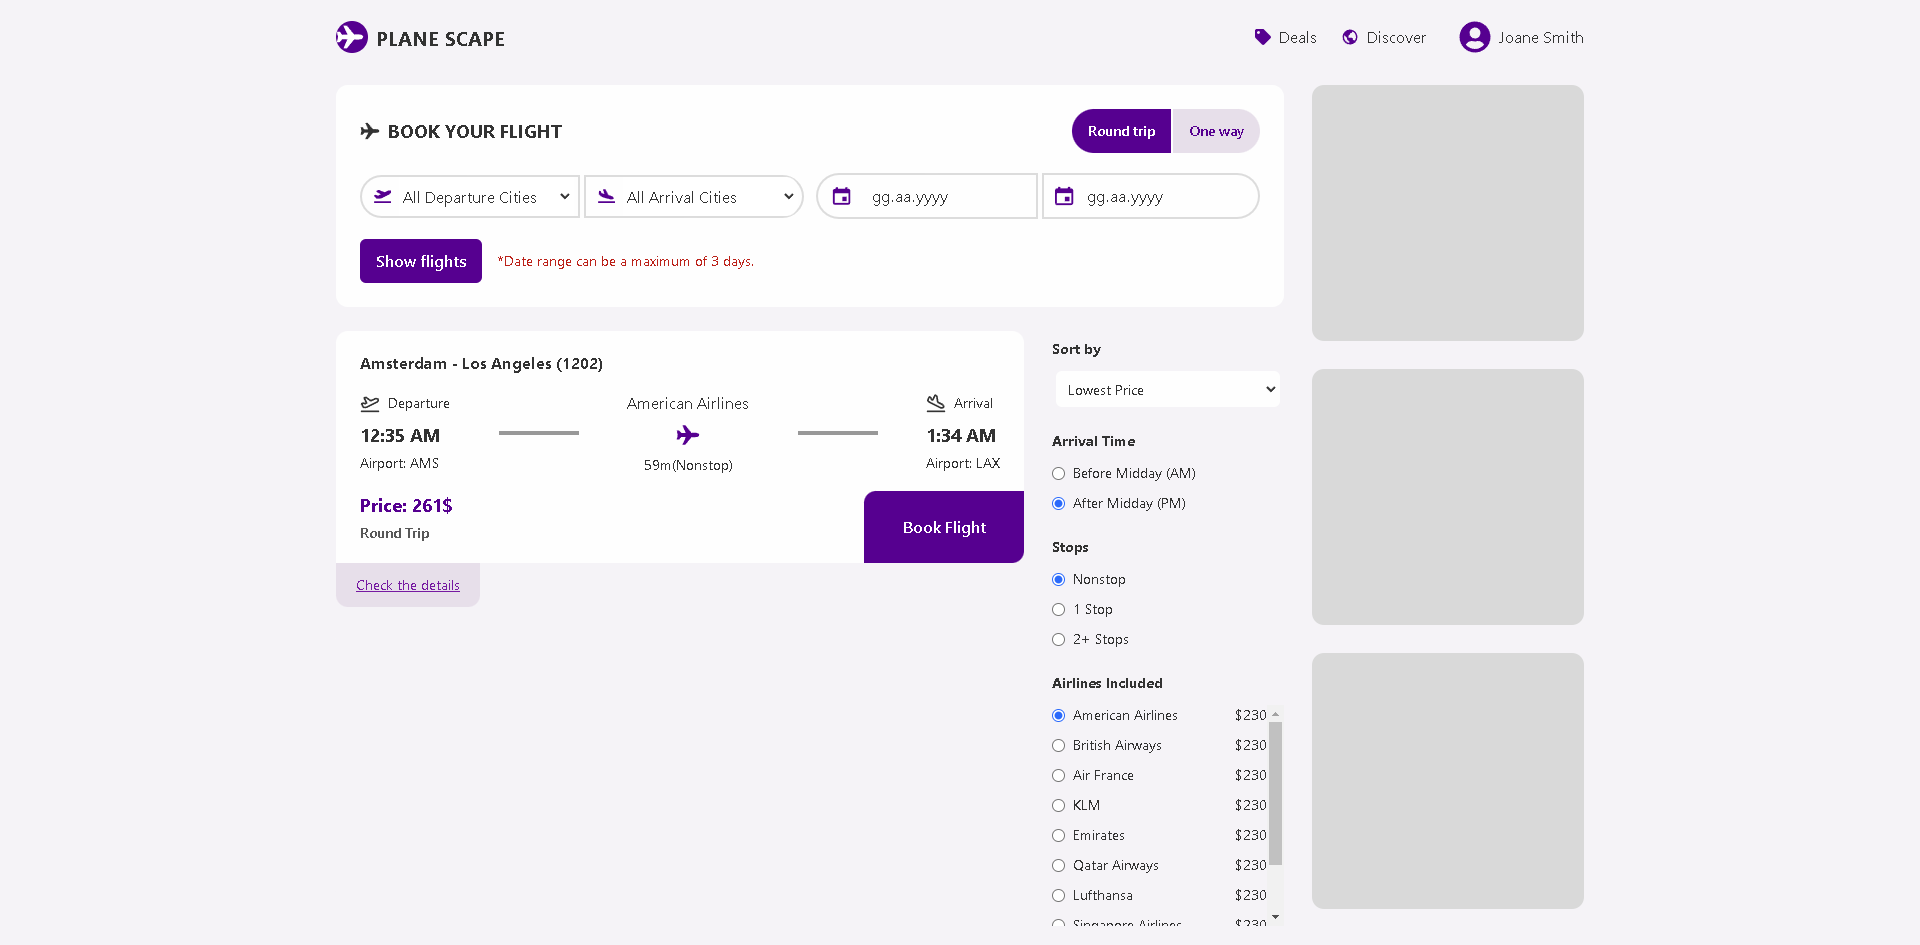
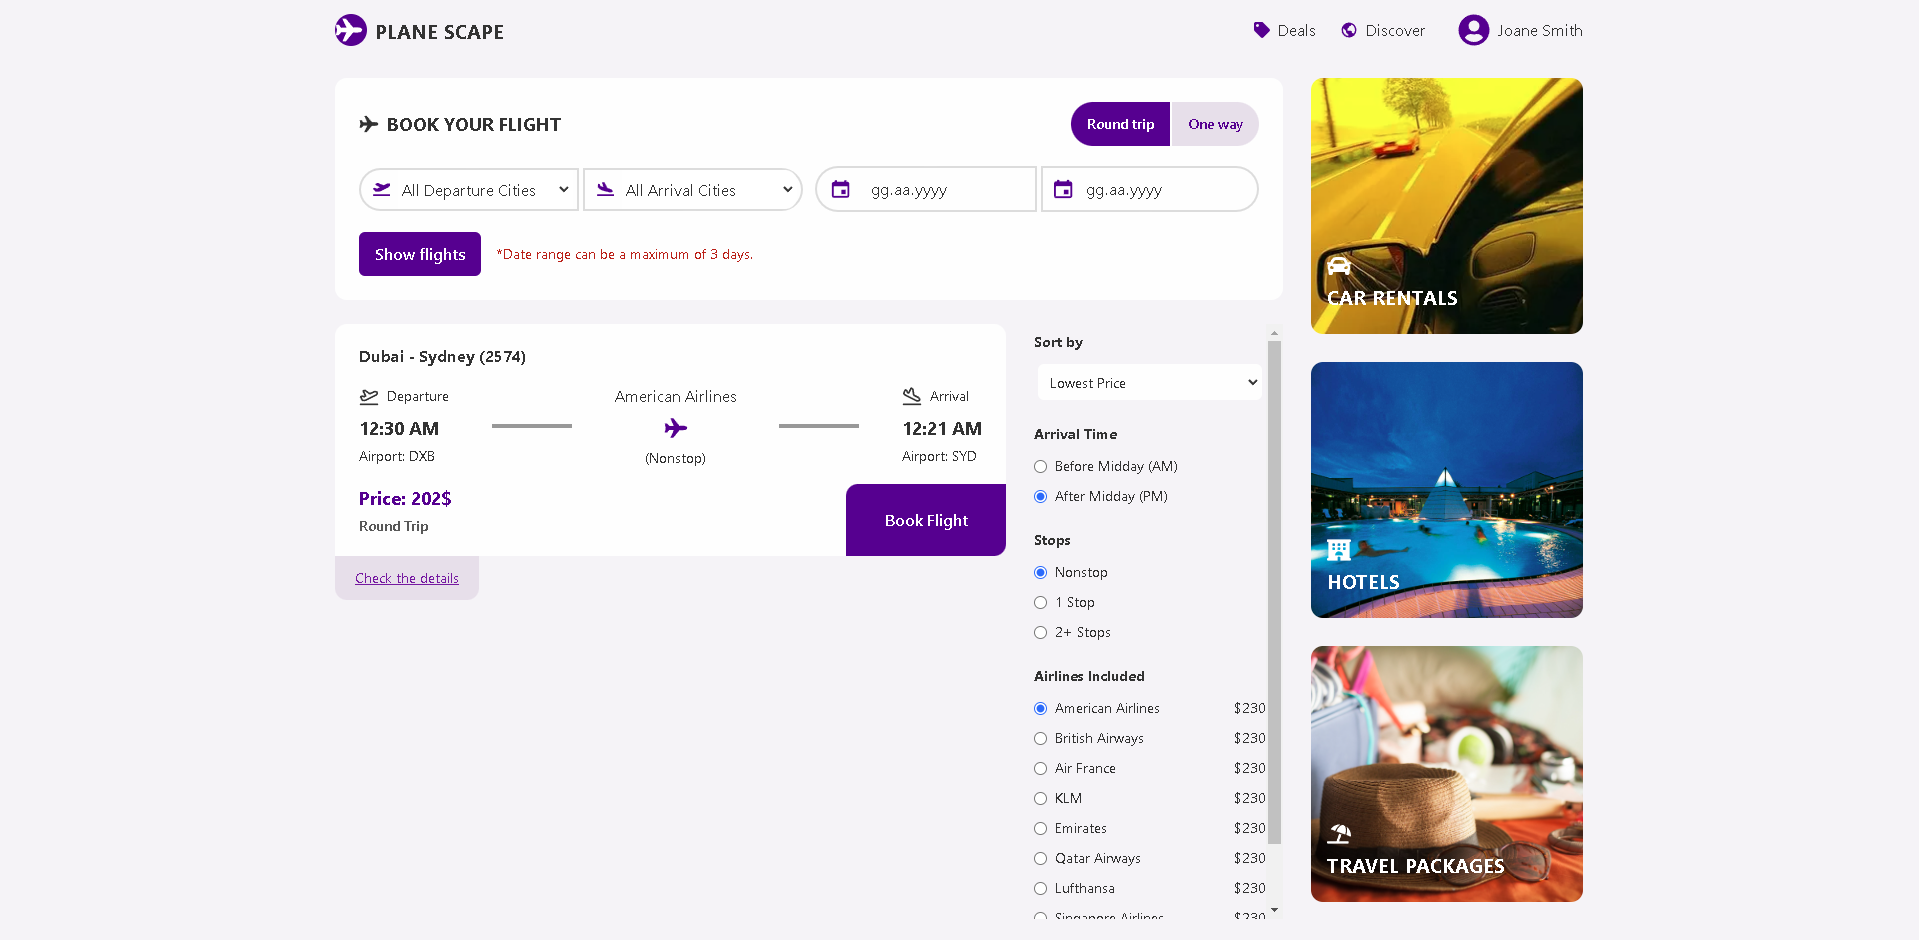
feat(client): add background images for OtherServices component, fix style errors, update README.md and project-images

diff --git a/client/src/app/components/bookFlight/OtherServices.tsx b/client/src/app/components/bookFlight/OtherServices.tsx
@@ -1,11 +1,45 @@
 import React from "react";
+import { FaCar, FaHotel, FaUmbrellaBeach } from "react-icons/fa";
 
 const OtherServices = () => {
   return (
     <section className="hidden xl:flex flex-col gap-7 ">
-      <div className="w-68 flex-1 max-h-64 rounded-xl bg-placeholder flex-shrink-0"></div>
-      <div className="w-68 flex-1 max-h-64 rounded-xl bg-placeholder flex-shrink-0"></div>
-      <div className="w-68 flex-1 max-h-64 rounded-xl bg-placeholder flex-shrink-0"></div>
+      <div
+        className="w-68 bg-cover bg-center text-white flex-1 flex max-h-64 rounded-xl bg-placeholder flex-shrink-0"
+        style={{
+          backgroundImage:
+            "url('https://avatars.mds.yandex.net/i?id=2a0000017a053cf641c234bb6389806b0523-4284974-images-thumbs&n=13')",
+        }}
+      >
+        <div className="flex flex-col gap-1 mt-auto ml-4 mb-6">
+          <FaCar className="w-6 h-6" />
+          <span className="font-bold text-xl">CAR RENTALS</span>
+        </div>
+      </div>
+      <div
+        className="w-68 bg-cover bg-center text-white flex-1 flex max-h-64 rounded-xl bg-placeholder flex-shrink-0"
+        style={{
+          backgroundImage:
+            "url('https://www.hotel-birnbacher-hof.de/wp-content/gallery/vitarium/Schwimmbecken-Vitarium-RottalTerme.jpg')",
+        }}
+      >
+        <div className="flex flex-col gap-1 mt-auto ml-4 mb-6">
+          <FaHotel className="w-6 h-6" />
+          <span className="font-bold text-xl">HOTELS</span>
+        </div>
+      </div>
+      <div
+        className="w-68 bg-cover bg-center text-white flex-1 flex max-h-64 rounded-xl bg-placeholder flex-shrink-0"
+        style={{
+          backgroundImage:
+            "url('https://www.stonewoodgrill.com/zupload/library/89/-100-2048x1070-0.jpg?ztv=20180522184655')",
+        }}
+      >
+        <div className="flex flex-col gap-1 mt-auto ml-4 mb-6">
+          <FaUmbrellaBeach className="w-6 h-6" />
+          <span className="font-bold text-xl">TRAVEL PACKAGES</span>
+        </div>
+      </div>
     </section>
   );
 };

diff --git a/client/src/app/components/myFlights/MyFlights.tsx b/client/src/app/components/myFlights/MyFlights.tsx
@@ -35,10 +35,10 @@ const MyFlights = () => {
       {data && data.length === 0 && <p>No flights found</p>}
       {data &&
         data.map((flight: Flight) => (
-          <div className="flex flex-col lg:flex-row justify-between items-center bg-background-light py-4 md:py-8 px-5 md:px-9 rounded shadow">
+          <div key={flight.flightNumber} className="flex flex-col lg:flex-row justify-between items-center bg-background-light py-4 md:py-8 px-5 md:px-9 rounded shadow">
             <div className="flex flex-col lg:flex-row items-center lg:items-stretch lg:gap-6">
               <div className="bg-placeholder w-10 h-10 rounded-full"></div>
-              <div className="flex flex-col gap-4">
+              <div className="flex flex-col gap-6 lg:gap-4">
                 <div className="flex gap-2 items-center text-xl md:text-2xl mx-auto lg:mx-0">
                   <span>{formatTo12Hour(flight.departureDateTime)}</span>
                   <div className="h-[2px] w-4 mt-1 bg-text"></div>
@@ -75,7 +75,7 @@ const MyFlights = () => {
                 </div>
               </div>
             </div>
-            <div className="flex gap-2 mt-3 lg:mt-0 flex-wrap justify-center sm:justify-stretch">
+            <div className="flex gap-2 mt-6 lg:mt-0 flex-wrap justify-center sm:justify-stretch">
               <div className="w-16 h-20 md:w-22 md:h-26 flex flex-col items-center justify-between bg-background-light border-2 border-[#dcdcdc] pt-3 pb-4 rounded-lg">
                 <span className="font-bold text-base md:text-lg">{flight.price}$</span>
                 <span className="text-text-light font-semibold text-sm">

diff --git a/client/src/app/components/bookFlight/SearchFlight.tsx b/client/src/app/components/bookFlight/SearchFlight.tsx
@@ -88,7 +88,7 @@ const SearchFlight = () => {
           <div className="inputWrapper inputWrapper-focus flex items-center pl-3 pr-1 gap-2 flex-1 border-2 border-[#dcdcdc] sm:sm:rounded-r-full">
             <FaPlaneArrival fill="#501a93" className="w-5 h-5" />
             <select
-              className="w-full h-full py-2 outline-none rounded-r-xl"
+              className="w-full h-full py-2 outline-none lg:rounded-r-xl"
               defaultValue={""}
               onChange={(e) => setArrivalCity(e.currentTarget.value)}
             >

diff --git a/README.md b/README.md
@@ -87,3 +87,8 @@ npm run dev
 
 - The Schiphol Flight API was not sufficient for the UI's filters and flight data, so I integrated it with my `GET /flights` API to enrich the data and expand the filter options.
 - The `.env` file was removed from `.gitignore` for easier sharing.
+
+## App's Routes
+
+- /book-flight
+- /my-flights
